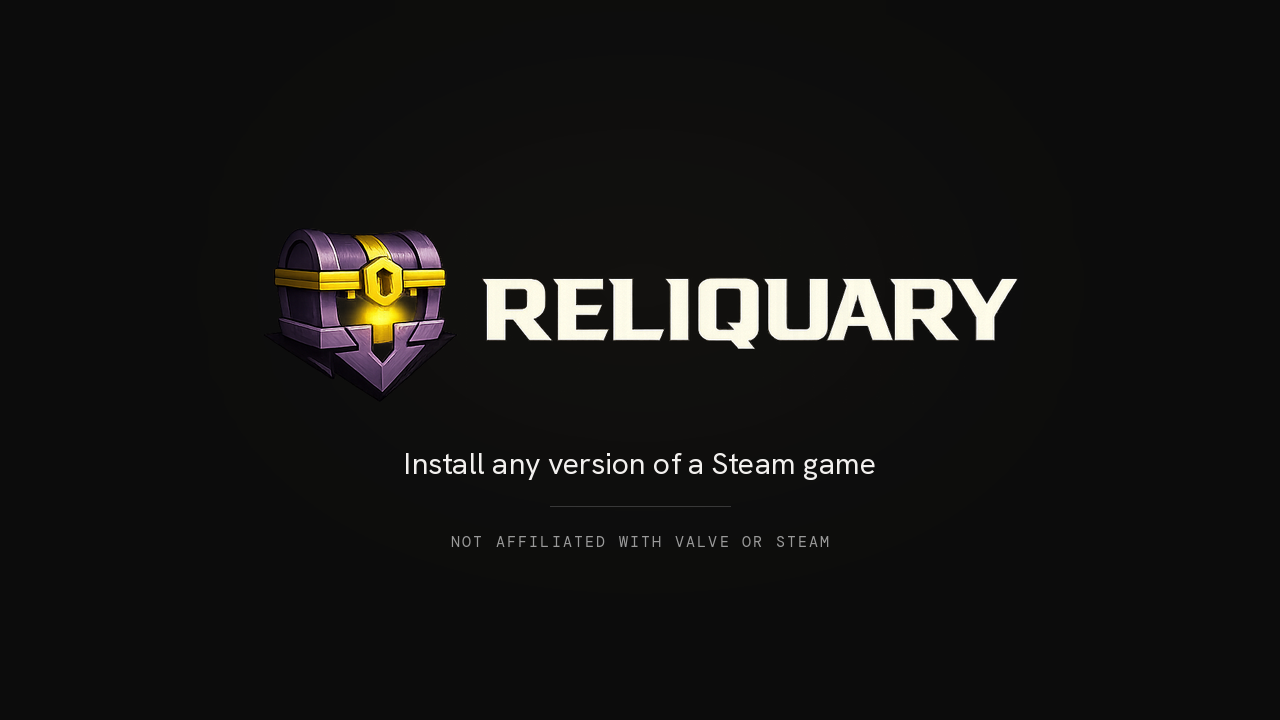
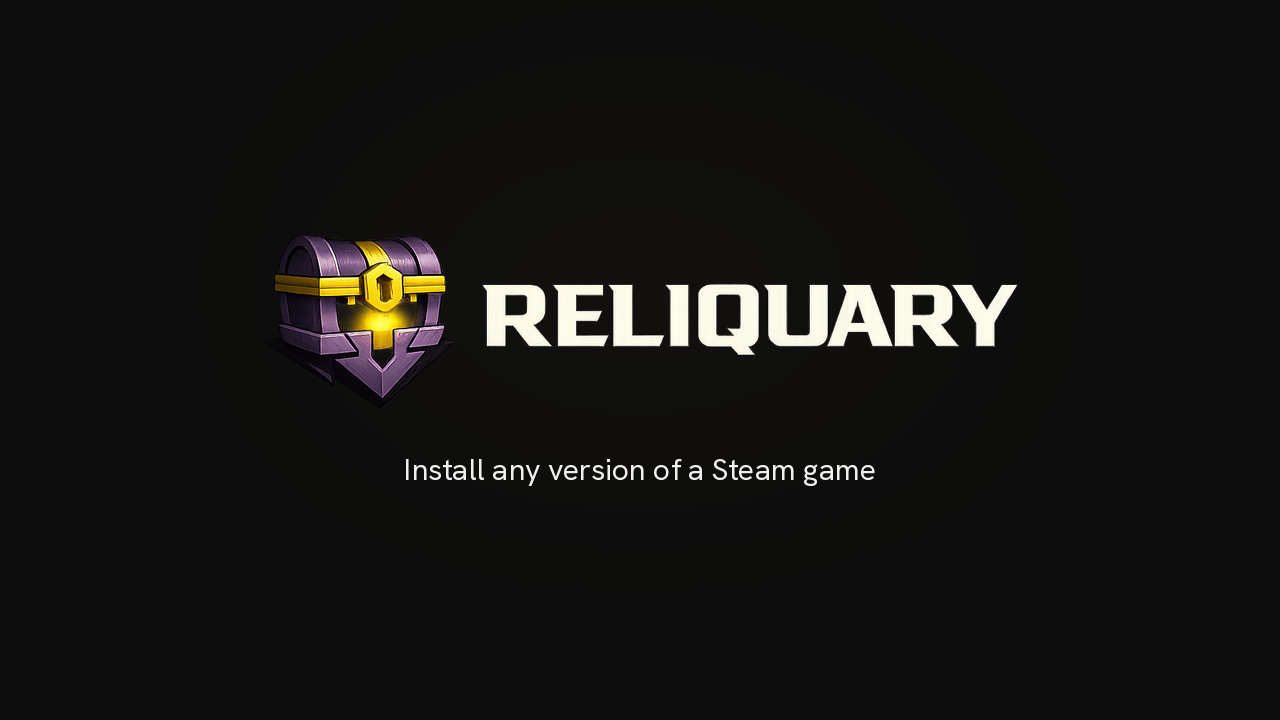
Drop the disclaimer line from the cover image
The cover is now the mark and one line of what it does. The disclaimer stays
where it is load-bearing: the app's own footer, on every screen, and the mod
description.

Recentred while removing it. The logo had a fixed 46px upward offset to leave
room for the rule and the line underneath; with those gone the same offset left
the composition sitting high, so the logo and the tagline are centred together
as one block instead.

Claude-Session: https://claude.ai/code/session_013VPS2nnm6cjstwfrxuzaLk

diff --git a/press/make-cover.py b/press/make-cover.py
@@ -19,7 +19,6 @@ W, H = 1280, 720
 BG = (12, 12, 12)
 GOLD = (194, 163, 95)
 TEXT = (242, 240, 238)
-MUTED = (154, 154, 154)
 
 here = os.path.dirname(os.path.abspath(__file__))
 root = os.path.dirname(here)
@@ -39,7 +38,15 @@ img = Image.composite(Image.new("RGB", (W, H), GOLD), img, halo.point(lambda v: 
 logo = Image.open(os.path.join(here, "reliquary-logo-full.png")).convert("RGBA")
 target_w = 760
 logo = logo.resize((target_w, round(logo.height * target_w / logo.width)), Image.LANCZOS)
-lx, ly = (W - logo.width) // 2, H // 2 - logo.height // 2 - 46
+
+# Centre the logo AND the tagline as one block rather than centring the logo
+# and hanging text off it. The first cut offset the logo by a fixed 46px to
+# leave room for a rule and a disclaimer line underneath; with those gone the
+# same offset left the whole composition sitting high.
+GAP, TAGLINE_H = 40, 38
+block_h = logo.height + GAP + TAGLINE_H
+ly = (H - block_h) // 2
+lx = (W - logo.width) // 2
 img.paste(logo, (lx, ly), logo)
 
 d = ImageDraw.Draw(img)
@@ -57,14 +64,8 @@ def centre(text, y, f, fill, tracking=0):
     else:
         d.text(((W - d.textlength(text, font=f)) / 2, y), text, font=f, fill=fill)
 
-tagline_y = ly + logo.height + 40
-centre("Install any version of a Steam game", tagline_y, font("HankenGrotesk-Regular.ttf", 30), TEXT)
-
-rule_y = tagline_y + 62
-d.line([(W // 2 - 90, rule_y), (W // 2 + 90, rule_y)], fill=(56, 56, 56), width=1)
-
-centre("NOT AFFILIATED WITH VALVE OR STEAM", rule_y + 26,
-       font("DMMono-Regular.ttf", 15), MUTED, tracking=2.2)
+centre("Install any version of a Steam game", ly + logo.height + GAP,
+       font("HankenGrotesk-Regular.ttf", 30), TEXT)
 
 img.save(os.path.join(here, "cover.png"))
 print("wrote", os.path.join(here, "cover.png"), img.size)
